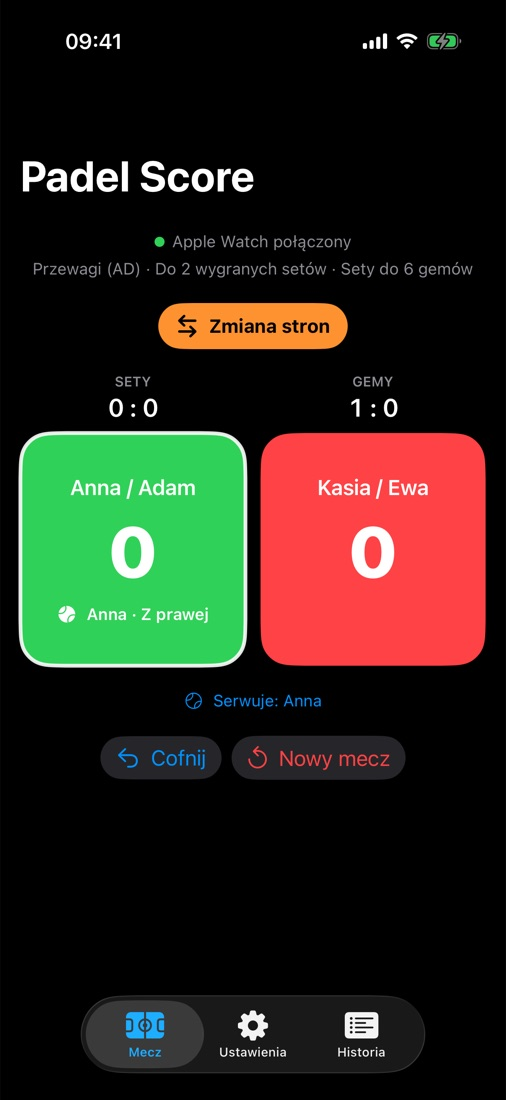
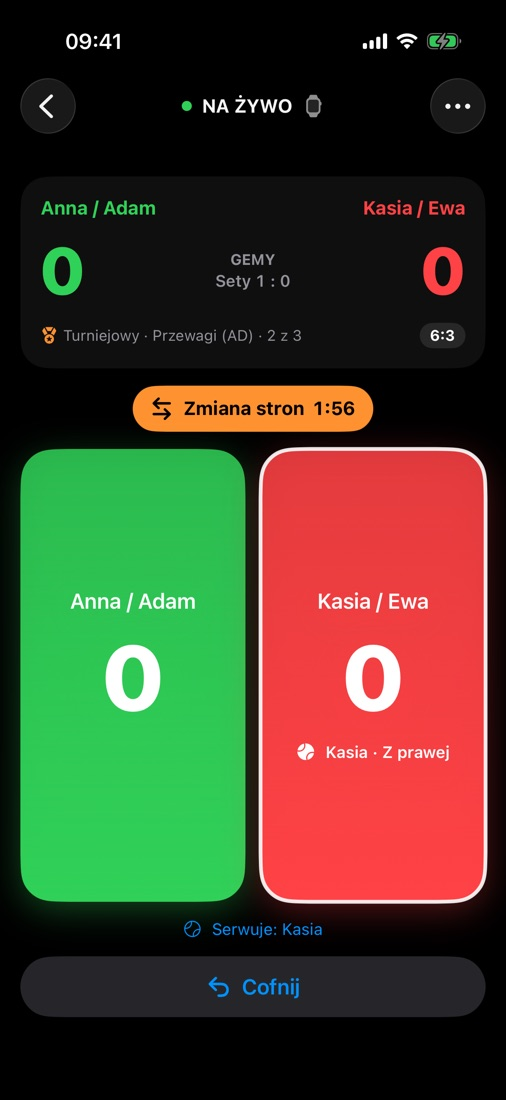
Update the website with the new features and screenshots
From mlodylbn/padelscore-app@92ebdb2

diff --git a/index.html b/index.html
@@ -6,10 +6,10 @@
 <title>PadelScore – wynik padla na Apple Watch i iPhonie</title>
 <meta name="title-pl" content="PadelScore – wynik padla na Apple Watch i iPhonie">
 <meta name="title-en" content="PadelScore – padel scoring for Apple Watch and iPhone">
-<meta name="description" content="PadelScore liczy wynik meczu padla na Apple Watch i iPhonie: punkty gestem Double Tap bez dotykania zegarka, serwis, Golden i Star Point, statystyki i grafika z wynikiem. Bez kont i bez zbierania danych.">
+<meta name="description" content="PadelScore liczy wynik meczu padla na Apple Watch i iPhonie: punkty gestem Double Tap, serwis, mecz towarzyski lub turniejowy, break pointy i piłki meczowe, czas na zmianę stron, historia i statystyki. Bez kont i bez zbierania danych.">
 <link rel="canonical" href="https://www.padelscore.pl/">
 <meta property="og:title" content="PadelScore – wynik padla na Apple Watch">
-<meta property="og:description" content="Licz punkty gestem Double Tap, bez dotykania zegarka. Gemy, sety, tie-breaki i serwis liczą się same.">
+<meta property="og:description" content="Licz punkty gestem Double Tap, bez dotykania zegarka. Gemy, sety, tie-breaki, serwis i zmiana stron liczą się same.">
 <meta property="og:image" content="https://www.padelscore.pl/assets/share-card.jpg">
 <meta property="og:url" content="https://www.padelscore.pl/">
 <meta property="og:type" content="website">
@@ -26,7 +26,7 @@
   "name": "PadelScore",
   "operatingSystem": "iOS, watchOS",
   "applicationCategory": "SportsApplication",
-  "description": "Padel scoring for Apple Watch and iPhone: Double Tap scoring, serve rotation, Golden Point and Star Point, match statistics and a shareable result image.",
+  "description": "Padel scoring for Apple Watch and iPhone: Double Tap scoring, serve rotation, friendly and tournament matches, break and match points, a change of ends timer, Golden Point and Star Point, match history, statistics and a shareable result image.",
   "url": "https://www.padelscore.pl/",
   "image": "https://www.padelscore.pl/assets/icon.png",
   "inLanguage": ["pl", "en", "de", "es", "fr", "it", "ru", "zh-Hans"],
@@ -48,6 +48,9 @@
   <symbol id="i-shield" viewBox="0 0 24 24"><path d="M12 3l8 3v6c0 4.6-3.4 8.4-8 9-4.6-.6-8-4.4-8-9V6z"/><path d="M9 12l2 2 4-4"/></symbol>
   <symbol id="i-check" viewBox="0 0 24 24"><path d="M5 12.5l4.5 4.5L19 7.5"/></symbol>
   <symbol id="i-share" viewBox="0 0 24 24"><path d="M12 3v12M7.5 7.5L12 3l4.5 4.5M5 13v5a3 3 0 0 0 3 3h8a3 3 0 0 0 3-3v-5"/></symbol>
+  <symbol id="i-medal" viewBox="0 0 24 24"><path d="M8 3h8l-2.5 6h-3z"/><circle cx="12" cy="15" r="5.5"/><path d="M12 12.5v5M10.5 14l1.5-1.5"/></symbol>
+  <symbol id="i-bolt" viewBox="0 0 24 24"><path d="M13.5 2.5L5 13.5h6l-1 8 8.5-11h-6z"/></symbol>
+  <symbol id="i-palette" viewBox="0 0 24 24"><path d="M12 3a9 9 0 1 0 0 18c1.4 0 2-.9 2-1.9 0-1.4-1.2-1.7-1.2-3 0-1 .8-1.6 1.9-1.6H17a4 4 0 0 0 4-4C21 6.4 17 3 12 3z"/><circle cx="7.5" cy="11.5" r="1.2"/><circle cx="10" cy="7.5" r="1.2"/><circle cx="14.5" cy="7.5" r="1.2"/></symbol>
 </svg>
 
 <header class="top">
@@ -98,7 +101,7 @@
       </p>
     </div>
     <div class="devices">
-      <div class="phone"><img src="assets/iphone-score-dark.jpg" width="506" height="1100" alt="Ekran meczu w PadelScore na iPhonie: Anna / Adam 30, Kasia / Ewa 15, gemy 2:1"></div>
+      <div class="phone"><img src="assets/iphone-score.jpg" width="506" height="1100" alt="Ekran meczu w PadelScore na iPhonie: Anna / Adam 40, Kasia / Ewa 15, gemy 5:3, piłka setowa"></div>
       <div class="watch"><img src="assets/watch-score.png" width="422" height="514" alt="PadelScore na Apple Watch: wynik i przycisk Double Tap"></div>
     </div>
   </div>
@@ -120,7 +123,17 @@
       <article class="card reveal">
         <div class="icon c-yellow"><svg class="i"><use href="#i-ball"/></svg></div>
         <h3><span lang="pl">Kto serwuje i&nbsp;skąd</span><span lang="en">Who serves, and from where</span></h3>
-        <p><span lang="pl">Rotacja serwisu z&nbsp;imionami graczy, strona serwisu i&nbsp;przypomnienie o&nbsp;zmianie stron.</span><span lang="en">Serve rotation with player names, the serving side and a change-of-ends reminder.</span></p>
+        <p><span lang="pl">Przed meczem wybierasz, kto serwuje. Potem aplikacja sama pilnuje rotacji serwisu, imion graczy i&nbsp;strony serwisu.</span><span lang="en">Pick who serves before the match. The app then follows the serve rotation, player names and serving side for you.</span></p>
+      </article>
+      <article class="card reveal">
+        <div class="icon c-teal"><svg class="i"><use href="#i-medal"/></svg></div>
+        <h3><span lang="pl">Mecz towarzyski lub turniejowy</span><span lang="en">Friendly or tournament match</span></h3>
+        <p><span lang="pl">Towarzyski: zmiana stron po secie. Turniejowy: po nieparzystych gemach, jak w&nbsp;przepisach. Do tego opcjonalne odliczanie czasu na zmianę stron: 90, 120 lub 180&nbsp;s.</span><span lang="en">Friendly: change ends after each set. Tournament: after odd games, as in the rules. Plus an optional change of ends timer: 90, 120 or 180&nbsp;s.</span></p>
+      </article>
+      <article class="card reveal">
+        <div class="icon c-orange"><svg class="i"><use href="#i-bolt"/></svg></div>
+        <h3><span lang="pl">Break point i&nbsp;piłka meczowa</span><span lang="en">Break point and match point</span></h3>
+        <p><span lang="pl">Aplikacja podpowiada break pointy, piłki setowe i&nbsp;meczowe na iPhonie, zegarku i&nbsp;ekranie blokady.</span><span lang="en">Break points, set points and match points are shown on iPhone, Apple&nbsp;Watch and the Lock Screen.</span></p>
       </article>
       <article class="card reveal">
         <div class="icon c-violet"><svg class="i"><use href="#i-star"/></svg></div>
@@ -128,12 +141,17 @@
         <p><span lang="pl">Przewagi, Golden Point lub Star Point (FIP&nbsp;2026). 1, 3 lub 5 setów, krótkie sety i&nbsp;super tie-break.</span><span lang="en">Advantage, Golden Point or Star Point (FIP&nbsp;2026). 1, 3 or 5 sets, short sets and super tie-break.</span></p>
       </article>
       <article class="card reveal">
-        <div class="icon c-blue"><svg class="i"><use href="#i-chart"/></svg></div>
-        <h3><span lang="pl">Statystyki meczu</span><span lang="en">Match statistics</span></h3>
-        <p><span lang="pl">Punkty, breaki, gemy serwisowe, serie i&nbsp;wykres przebiegu meczu.</span><span lang="en">Points, breaks, service games, streaks and a match flow chart.</span></p>
+        <div class="icon c-pink"><svg class="i"><use href="#i-palette"/></svg></div>
+        <h3><span lang="pl">Twoje kolory</span><span lang="en">Your colors</span></h3>
+        <p><span lang="pl">Dziesięć kolorów przycisków osobno dla każdej drużyny, gotowe zestawy i&nbsp;podgląd na żywo. Kolory przechodzą na zegarek.</span><span lang="en">Ten button colors for each team, ready-made sets and a live preview. Colors carry over to the watch.</span></p>
       </article>
       <article class="card reveal">
-        <div class="icon c-orange"><svg class="i"><use href="#i-phone"/></svg></div>
+        <div class="icon c-blue"><svg class="i"><use href="#i-chart"/></svg></div>
+        <h3><span lang="pl">Statystyki i&nbsp;historia</span><span lang="en">Statistics and history</span></h3>
+        <p><span lang="pl">Breaki, serie i&nbsp;wykres przebiegu meczu. Historia z&nbsp;podsumowaniem, filtrem i&nbsp;eksportem do Excela lub Numbers.</span><span lang="en">Breaks, streaks and a match flow chart. A history with a summary, filter and export to Excel or Numbers.</span></p>
+      </article>
+      <article class="card reveal">
+        <div class="icon c-sky"><svg class="i"><use href="#i-phone"/></svg></div>
         <h3><span lang="pl">Wynik na ekranie blokady</span><span lang="en">Score on the Lock Screen</span></h3>
         <p><span lang="pl">Live Activity i&nbsp;Dynamic Island na iPhonie. Zegarek i&nbsp;telefon zawsze pokazują to samo.</span><span lang="en">Live Activity and Dynamic Island on iPhone. Watch and phone always show the same score.</span></p>
       </article>
@@ -196,6 +214,8 @@
       <p><span lang="pl">Od towarzyskiego meczu po turniejowe zasady FIP.</span><span lang="en">From a friendly match to FIP tournament rules.</span></p>
     </div>
     <ul class="chips reveal">
+      <li><span lang="pl">Mecz towarzyski</span><span lang="en">Friendly match</span></li>
+      <li><span lang="pl">Mecz turniejowy</span><span lang="en">Tournament match</span></li>
       <li><span lang="pl">Przewagi (AD)</span><span lang="en">Advantage (AD)</span></li>
       <li>Golden Point</li>
       <li>Star Point <b>FIP 2026</b></li>
@@ -205,6 +225,8 @@
       <li><span lang="pl">Tie-break przy 6:6</span><span lang="en">Tie-break at 6:6</span></li>
       <li><span lang="pl">Rotacja serwisu</span><span lang="en">Serve rotation</span></li>
       <li><span lang="pl">Zmiana stron</span><span lang="en">Change of ends</span></li>
+      <li><span lang="pl">Czas na zmianę stron: 90, 120, 180&nbsp;s</span><span lang="en">Change of ends timer: 90, 120, 180&nbsp;s</span></li>
+      <li><span lang="pl">Break point i&nbsp;piłka meczowa</span><span lang="en">Break and match points</span></li>
     </ul>
   </div>
 </section>
@@ -217,14 +239,34 @@
     </div>
     <div class="gallery">
       <figure class="shot reveal">
-        <div class="frame"><img src="assets/iphone-score-dark.jpg" loading="lazy" width="506" height="1100" alt="Ekran meczu z wynikiem i serwującym"></div>
-        <figcaption><span lang="pl">Mecz</span><span lang="en">Match</span>
-          <span><span lang="pl">Wynik, gemy i&nbsp;serwujący</span><span lang="en">Score, games and server</span></span></figcaption>
+        <div class="frame"><img src="assets/iphone-home.jpg" loading="lazy" width="506" height="1100" alt="Menu startowe PadelScore z trwającym meczem"></div>
+        <figcaption><span lang="pl">Start</span><span lang="en">Start</span>
+          <span><span lang="pl">Mecz, zasady, gracze i&nbsp;historia</span><span lang="en">Match, rules, players and history</span></span></figcaption>
       </figure>
       <figure class="shot reveal">
-        <div class="frame"><img src="assets/iphone-change-ends.jpg" loading="lazy" width="506" height="1100" alt="Przypomnienie o zmianie stron"></div>
+        <div class="frame"><img src="assets/iphone-score.jpg" loading="lazy" width="506" height="1100" alt="Ekran meczu z piłką setową"></div>
+        <figcaption><span lang="pl">Mecz</span><span lang="en">Match</span>
+          <span><span lang="pl">Wynik, serwis i&nbsp;piłka setowa</span><span lang="en">Score, serve and set point</span></span></figcaption>
+      </figure>
+      <figure class="shot reveal">
+        <div class="frame"><img src="assets/iphone-change-ends.jpg" loading="lazy" width="506" height="1100" alt="Odliczanie czasu na zmianę stron"></div>
         <figcaption><span lang="pl">Zmiana stron</span><span lang="en">Change ends</span>
-          <span><span lang="pl">Przypomnienie we właściwym momencie</span><span lang="en">A reminder at the right moment</span></span></figcaption>
+          <span><span lang="pl">Odliczanie czasu na zmianę stron</span><span lang="en">A countdown to change ends</span></span></figcaption>
+      </figure>
+      <figure class="shot reveal">
+        <div class="frame"><img src="assets/iphone-rules.jpg" loading="lazy" width="506" height="1100" alt="Zasady meczu: mecz towarzyski lub turniejowy i czas na zmianę stron"></div>
+        <figcaption><span lang="pl">Zasady</span><span lang="en">Rules</span>
+          <span><span lang="pl">Mecz towarzyski lub turniejowy</span><span lang="en">Friendly or tournament match</span></span></figcaption>
+      </figure>
+      <figure class="shot reveal">
+        <div class="frame"><img src="assets/iphone-history.jpg" loading="lazy" width="506" height="1100" alt="Historia meczów z podsumowaniem i kartami meczów"></div>
+        <figcaption><span lang="pl">Historia</span><span lang="en">History</span>
+          <span><span lang="pl">Podsumowanie, filtr i&nbsp;eksport</span><span lang="en">Summary, filter and export</span></span></figcaption>
+      </figure>
+      <figure class="shot reveal">
+        <div class="frame"><img src="assets/iphone-colors.jpg" loading="lazy" width="506" height="1100" alt="Wybór kolorów przycisków dla obu drużyn"></div>
+        <figcaption><span lang="pl">Kolory</span><span lang="en">Colors</span>
+          <span><span lang="pl">Dziesięć kolorów dla każdej drużyny</span><span lang="en">Ten colors for each team</span></span></figcaption>
       </figure>
       <figure class="shot reveal">
         <div class="frame"><img src="assets/iphone-stats-dark.jpg" loading="lazy" width="506" height="1100" alt="Statystyki meczu i wykres przebiegu"></div>
@@ -249,7 +291,7 @@
     <div class="steps">
       <div class="card step reveal">
         <h3><span lang="pl">Ustaw mecz</span><span lang="en">Set up the match</span></h3>
-        <p><span lang="pl">Wybierz punktację, liczbę setów i&nbsp;opcjonalnie wpisz imiona graczy.</span><span lang="en">Choose the scoring, number of sets and optionally enter player names.</span></p>
+        <p><span lang="pl">Wybierz mecz towarzyski lub turniejowy, punktację i&nbsp;liczbę setów. Opcjonalnie wpisz imiona graczy.</span><span lang="en">Choose a friendly or tournament match, the scoring and the number of sets. Optionally enter player names.</span></p>
       </div>
       <div class="card step reveal">
         <h3><span lang="pl">Graj z&nbsp;zegarkiem</span><span lang="en">Play with your watch</span></h3>
@@ -257,7 +299,7 @@
       </div>
       <div class="card step reveal">
         <h3><span lang="pl">Sprawdź i&nbsp;udostępnij</span><span lang="en">Review and share</span></h3>
-        <p><span lang="pl">Po meczu zobacz statystyki i&nbsp;wyślij grafikę z&nbsp;wynikiem znajomym.</span><span lang="en">After the match, see the statistics and send the result image to your friends.</span></p>
+        <p><span lang="pl">Po meczu zobacz statystyki, a&nbsp;wynik zostaje w&nbsp;Historii. Wyślij znajomym grafikę z&nbsp;wynikiem.</span><span lang="en">After the match, see the statistics; the result stays in your History. Send the result image to your friends.</span></p>
       </div>
     </div>
   </div>

diff --git a/support/index.html b/support/index.html
@@ -79,18 +79,26 @@
     </details>
 
     <details>
+      <summary><span lang="pl">Czym różni się mecz towarzyski od turniejowego?</span><span lang="en">What is the difference between a friendly and a tournament match?</span></summary>
+      <div class="answer">
+        <p lang="pl">W&nbsp;meczu towarzyskim strony zmienia się tylko po każdym secie. W&nbsp;meczu turniejowym, jak w&nbsp;oficjalnych przepisach, po nieparzystych gemach i&nbsp;co 6&nbsp;punktów w&nbsp;tie-breaku. Nowy mecz jest domyślnie towarzyski, a&nbsp;rodzaj zmienisz w&nbsp;Zasadach meczu. Tam włączysz też odliczanie czasu na zmianę stron: osobno po secie i&nbsp;po gemie, 90, 120 lub 180&nbsp;s. Gdy czas minie, zegarek zawibruje.</p>
+        <p lang="en">In a friendly match, ends change only after each set. In a tournament match, as in the official rules, they change after odd games and every 6 points of a tie-break. A new match is friendly by default; change the type in Match rules. There you can also turn on a change of ends timer: separately after a set and after a game, 90, 120 or 180&nbsp;s. When the time is up, the watch taps your wrist.</p>
+      </div>
+    </details>
+
+    <details>
       <summary><span lang="pl">Nie mogę zmienić formatu meczu</span><span lang="en">I can't change the match format</span></summary>
       <div class="answer">
-        <p lang="pl">Liczbę setów, długość setów i&nbsp;super tie-break można zmienić tylko przed pierwszym punktem, aby nie zepsuć trwającego wyniku. Rozpocznij nowy mecz („Nowy mecz”), a&nbsp;potem zmień format. Punktację przy 40:40 możesz zmienić w&nbsp;każdej chwili.</p>
-        <p lang="en">The number of sets, set length and super tie-break can only be changed before the first point, so a running score stays valid. Start a new match ("New match"), then change the format. The scoring at 40:40 can be changed at any time.</p>
+        <p lang="pl">Liczbę setów, długość setów i&nbsp;super tie-break można zmienić tylko przed pierwszym punktem, aby nie zepsuć trwającego wyniku. Rozpocznij nowy mecz („Nowy mecz”), a&nbsp;potem zmień format w&nbsp;Zasadach meczu. Punktację przy 40:40, rodzaj meczu i&nbsp;czas na zmianę stron możesz zmienić w&nbsp;każdej chwili.</p>
+        <p lang="en">The number of sets, set length and super tie-break can only be changed before the first point, so a running score stays valid. Start a new match ("New match"), then change the format in Match rules. The scoring at 40:40, the match type and the change of ends timer can be changed at any time.</p>
       </div>
     </details>
 
     <details>
       <summary><span lang="pl">Jak działa wskazywanie serwującego?</span><span lang="en">How does the server indicator work?</span></summary>
       <div class="answer">
-        <p lang="pl">Na początku meczu wybierz, kto serwuje pierwszy. Dalej aplikacja sama liczy rotację, także w&nbsp;tie-breaku, i&nbsp;pokazuje stronę serwisu. Jeśli wpiszesz imiona graczy w&nbsp;kolejności serwowania (Ustawienia › Gracze), zobaczysz też, który gracz serwuje. Serwującego możesz poprawić w&nbsp;każdej chwili.</p>
-        <p lang="en">At the start of the match, choose who serves first. From then on the app counts the rotation, including tie-breaks, and shows the serving side. If you enter player names in serving order (Settings › Players), you also see which player serves. You can correct the server at any time.</p>
+        <p lang="pl">Na początku meczu wybierz, kto serwuje pierwszy. Dalej aplikacja sama liczy rotację, także w&nbsp;tie-breaku, i&nbsp;pokazuje stronę serwisu. Jeśli wpiszesz imiona graczy w&nbsp;kolejności serwowania (menu › Gracze), zobaczysz też, który gracz serwuje. Serwującego możesz poprawić w&nbsp;każdej chwili.</p>
+        <p lang="en">At the start of the match, choose who serves first. From then on the app counts the rotation, including tie-breaks, and shows the serving side. If you enter player names in serving order (menu › Players), you also see which player serves. You can correct the server at any time.</p>
       </div>
     </details>
 
@@ -113,8 +121,16 @@
     <details>
       <summary><span lang="pl">Jak usunąć mecz z&nbsp;historii?</span><span lang="en">How do I delete a match from history?</span></summary>
       <div class="answer">
-        <p lang="pl">Otwórz Historia › Zapisane mecze i&nbsp;stuknij „Usuń mecz”. Mecz zniknie z&nbsp;obu urządzeń. Trening zapisany w&nbsp;Zdrowiu usuniesz w&nbsp;aplikacji Zdrowie.</p>
-        <p lang="en">Open History › Saved matches and tap "Delete match". The match is removed from both devices. A workout saved in Health can be deleted in the Health app.</p>
+        <p lang="pl">Na iPhonie otwórz Historię, przytrzymaj kartę meczu i&nbsp;wybierz „Usuń mecz”. Możesz też otworzyć mecz i&nbsp;stuknąć „Usuń mecz” na dole. Mecz zniknie z&nbsp;obu urządzeń. Trening zapisany w&nbsp;Zdrowiu usuniesz w&nbsp;aplikacji Zdrowie.</p>
+        <p lang="en">On iPhone, open History, touch and hold a match card and choose "Delete match". You can also open the match and tap "Delete match" at the bottom. The match is removed from both devices. A workout saved in Health can be deleted in the Health app.</p>
+      </div>
+    </details>
+
+    <details>
+      <summary><span lang="pl">Jak wyeksportować historię meczów?</span><span lang="en">How do I export my match history?</span></summary>
+      <div class="answer">
+        <p lang="pl">W&nbsp;Historii stuknij ikonę udostępniania w&nbsp;prawym górnym rogu albo wybierz Ustawienia › Twoje dane › „Eksportuj historię meczów”. Powstanie plik CSV ze wszystkimi meczami, który otworzysz w&nbsp;Numbers, Excelu lub Arkuszach Google.</p>
+        <p lang="en">In History, tap the share icon in the top right corner, or choose Settings › Your data › "Export match history". You get a CSV file with all matches that opens in Numbers, Excel or Google Sheets.</p>
       </div>
     </details>
 

diff --git a/assets/site.css b/assets/site.css
@@ -229,6 +229,9 @@ footer a:hover { text-decoration: underline; }
 .card .icon.c-blue   { background: linear-gradient(135deg, #38bdf8, #1d4ed8); color: #fff; }
 .card .icon.c-orange { background: linear-gradient(135deg, #fb923c, #ea580c); color: #fff; }
 .card .icon.c-red    { background: linear-gradient(135deg, #fb7185, #e11d48); color: #fff; }
+.card .icon.c-teal   { background: linear-gradient(135deg, #2dd4bf, #0d9488); color: #fff; }
+.card .icon.c-pink   { background: linear-gradient(135deg, #f472b6, #db2777); color: #fff; }
+.card .icon.c-sky    { background: linear-gradient(135deg, #7dd3fc, #0284c7); color: #fff; }
 .card { transition: transform .25s ease, box-shadow .25s ease; }
 .card:hover { transform: translateY(-3px); box-shadow: 0 2px 4px rgba(13,42,77,.06), 0 18px 40px rgba(13,42,77,.12); }
 
@@ -246,9 +249,9 @@ footer a:hover { text-decoration: underline; }
   html.reveal-ready .reveal { opacity: 0; transform: translateY(26px);
                               transition: opacity .7s ease, transform .7s cubic-bezier(.2, .7, .2, 1); }
   html.reveal-ready .reveal.visible { opacity: 1; transform: none; }
-  html.reveal-ready .grid .reveal:nth-child(3n+2), html.reveal-ready .gallery .reveal:nth-child(2),
+  html.reveal-ready .grid .reveal:nth-child(3n+2), html.reveal-ready .gallery .reveal:nth-child(4n+2),
   html.reveal-ready .steps .reveal:nth-child(2) { transition-delay: .08s; }
-  html.reveal-ready .grid .reveal:nth-child(3n), html.reveal-ready .gallery .reveal:nth-child(3),
+  html.reveal-ready .grid .reveal:nth-child(3n), html.reveal-ready .gallery .reveal:nth-child(4n+3),
   html.reveal-ready .steps .reveal:nth-child(3) { transition-delay: .16s; }
-  html.reveal-ready .gallery .reveal:nth-child(4) { transition-delay: .24s; }
+  html.reveal-ready .gallery .reveal:nth-child(4n) { transition-delay: .24s; }
 }
